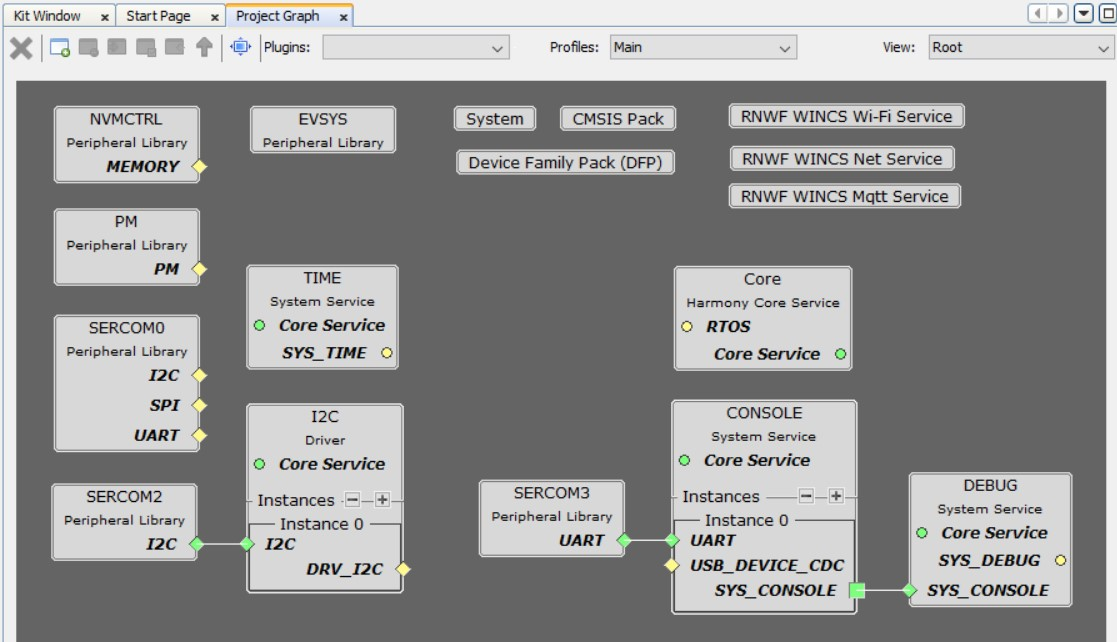
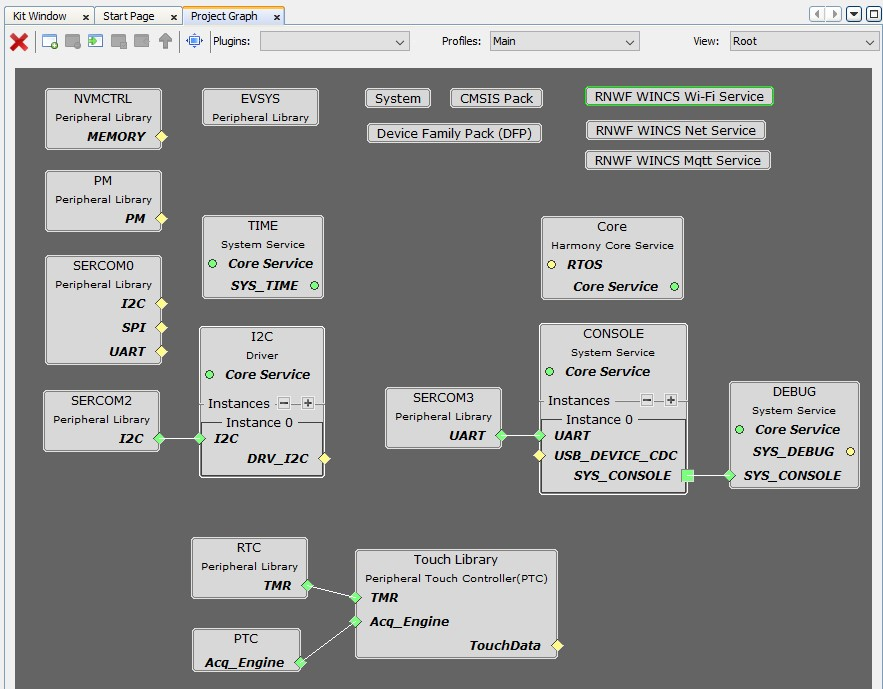
[DOCS] Updated the Sensor Fusion AWS IoT demo readme on PIC32CM LS00 CNANO as per the ER | M32MM-2712

diff --git a/apps/pic32cm_ls00_cnano/pic32cm_ls00_map_examples/integrate/pic32cm_ls00_cnano_aws_iot/readme.md b/apps/pic32cm_ls00_cnano/pic32cm_ls00_map_examples/integrate/pic32cm_ls00_cnano_aws_iot/readme.md
@@ -29,20 +29,25 @@ nav_order: 1
 	- EVSYS
 	- NVMCTRL
 	- PORT
+  - RTC
+  - PTC
 
 - Drivers
-    - I2C Driver
+  - I2C Driver
 
 - System Service
-    - Core
-	- Console
-	- Debug
-	- Time
+  - Core
+    - Console
+    - Debug
+    - Time
+
+- Library
+  - Touch 
 	
 - Wireless System Service
- 	- RNWF WINCS Wi-Fi Service 
-	- RNWF WINCS Net Service
-	- RNWF WINCS MQTT Service
+  - RNWF WINCS Wi-Fi Service
+  - RNWF WINCS Net Service
+  - RNWF WINCS MQTT Service
 
 The MCC Harmony project graph would look like this:
 	
@@ -102,6 +107,8 @@ The pre-built hex file can be programmed by following the below steps.
 
 ## Programming/Debugging Application Project:
 - Open the project group (pic32cm_ls00_cnano_aws_iot/firmware/aws_iot_pic32cm_ls00_cnanogroup) in MPLAB® X IDE
+- Right click on "aws_iot_pic32cm_ls00_cnanogroup" file and go to *Open Required projects > Open All Projects*.
+- Then right click on the non-secure project and click *Set as Main Project*.
 - Ensure "PIC32CM LS00 Curiosity Nano" is selected as hardware tool to program/debug the application
 - Build the code and program the device by clicking on the "make and program" button in MPLAB® X IDE tool bar
 - Debugging the project can be done by clicking on the “Debug Main Project” button in MPLAB® X IDE tool bar
@@ -109,16 +116,22 @@ The pre-built hex file can be programmed by following the below steps.
 
 ## Running the Demo:
 - Open a standard terminal application on the computer (like Putty or Tera Term) and configure the virtual COM port
+
 - Set the serial baud rate to 115200 baud in the terminal application.
 
+- To Reset the device, run this command: **ipecmd.exe -P32CM5164LS00048 -TPNEDBG -OK** from the following location: *C:/Program Files/Microchip/MPLABX/v6.20/mplab_platform/mplab_ipe*
+	<img src = "images/reset_command.png" align="middle" width = "480">
+
+  **NOTE**: PIC32CM LS00 Curiosity Nano + Touch Evaluation Kit does not include a reset button. Therefore, the device can be reset by executing the reset command in the CMD prompt.
+
 - Wait for the initialization prints in the serial port terminal
-  <img src = "images/output_0.jpg" align="middle" width = "480" > 
+  <img src = "images/output_0.jpg" align="middle" width = "480"> 
 
 - Press the touch button on the PIC32CM LS00 Curiosity Nano + Touch Evaluation Kit to start the message pubishing in the AWS IoT Cloud
   <img src = "images/output_1.jpg" align="middle" width = "480">
 
 - After the button press, the serial console shows the published sensor data 
-<img src = "images/output_2.jpg" align="middle" width = "480"> 
+  <img src = "images/output_2.jpg" align="middle" width = "480"> 
 
 - Open the AWS IoT Cloud in the browser and select the MQTT test client
   <img src = "images/aws_output_0.jpg" align="middle" height = 300>    
@@ -130,8 +143,16 @@ The pre-built hex file can be programmed by following the below steps.
   <img src = "images/aws_output_2.jpg" align="middle" width = "480"> 
   
 
-  ## Note:
-  RGB LED indicates MQTT connected or not:
+## Note:
+- The Wi-Fi SSID and Password is configured through MCC under RNWF WINCS Wi-Fi Service configuration or the user can modify the credentials manually in the configurations.h file of the pic32cm_ls00_cnano_aws_iot project as below
+
+  - MCC Configuration:
+  <img src = "images/wifi_cerdentials_0.jpg" align="middle" width = "480">
+  
+  - Manual Configuration:
+  <img src = "images/wifi_cerdentials_1.jpg" align="middle" width = "480">
+
+- RGB LED indicates MQTT connected or not:
 
  	- The RED LED is turned ON when the board is not connected to MQTT
 	<img src = "images/mqtt_disconnected.jpg" align="middle" width = "480">  
